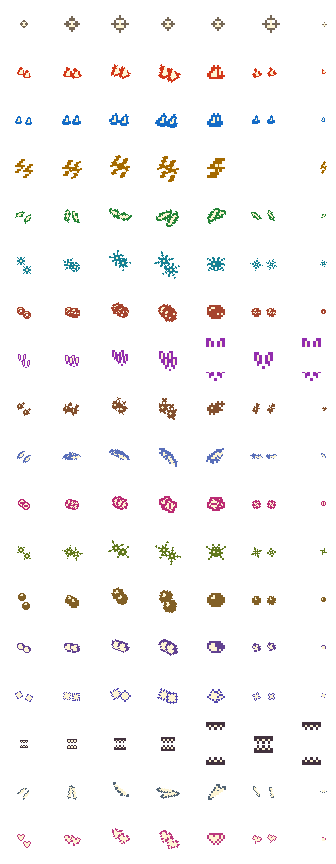
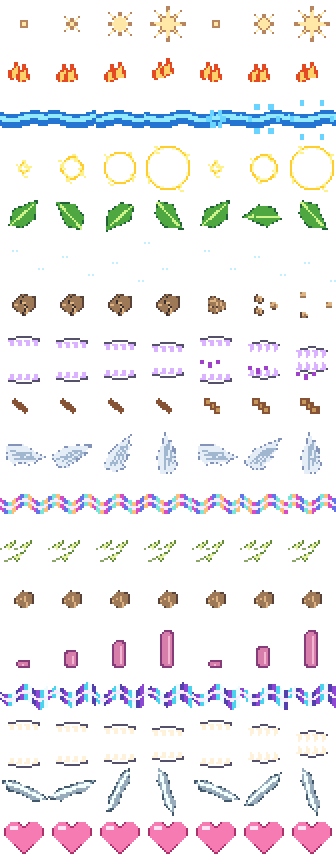
Give moves distinct pixel stream, fang, wing and ring effects

diff --git a/js/move-effects.js b/js/move-effects.js
@@ -9,22 +9,22 @@
   };
   // Sheet rows follow this order. Angles and heights describe the projectile path.
   const moves = {
-    노말: { reach: 0.15 }, 불꽃: { arc: 22, duration: 180 }, 물: { duration: 240 },
-    전기: { wave: 12, cycles: 3, duration: 175, since: 4 },
+    노말: { reach: 0.15 }, 불꽃: { reach: 0.25, duration: 180 }, 물: { duration: 240, beam: true },
+    전기: { reach: 0, duration: 175 },
     풀: { wave: 18, cycles: 1, duration: 260, since: 7 },
-    얼음: { reach: 0, fall: 65 }, 격투: { reach: 0.2, arc: 12 },
-    독: { reach: 0.12, since: 3 }, 땅: { arc: 48 }, 비행: { reach: 0.5, arc: 34 },
-    에스퍼: { wave: 8, cycles: 2, since: 4 }, 벌레: { reach: 0.55, wave: 16, cycles: 2, since: 6 },
-    바위: { reach: 0, fall: 85 }, 고스트: { reach: 0.45, wave: 21, cycles: 1.5 },
-    드래곤: { wave: 11, cycles: 2, since: 4 }, 악: { reach: 0.08 },
-    강철: { reach: 0.45, arc: 24 }, 페어리: { arc: 36, since: 6 },
+    얼음: { reach: 0, fall: 65 }, 격투: { reach: 0, fall: 20 },
+    독: { reach: 0.12, since: 3 }, 땅: { arc: 48 }, 비행: { reach: 0.15 },
+    에스퍼: { beam: true }, 벌레: {},
+    바위: { reach: 0, fall: 85 }, 고스트: { reach: 0, fall: -25 },
+    드래곤: { beam: true, since: 4 }, 악: { reach: 0.08 },
+    강철: { reach: 0.2 }, 페어리: { reach: 0, since: 6 },
   };
   const rows = Object.keys(moves);
   const sheets = new Map();
   function loadSheet(style) {
     if (!sheets.has(style)) {
       const image = new Image();
-      image.src = new URL("../assets/effects/" + style + "/moves.png", scriptUrl);
+      image.src = new URL("../assets/effects/" + style + "/moves.png?v=move-art-2", scriptUrl);
       sheets.set(style, image.decode().then(() => image, () => {
         sheets.delete(style);
         return null;
@@ -87,7 +87,15 @@
     const sheet = loadSheet(styleKey);
     return {
       async flight() {
+        if (move.beam) {
+          canvas.classList.add("move-beam");
+          canvas.style.width = Math.round(Math.hypot(dx, dy)) + "px";
+          canvas.style.rotate = Math.atan2(-dy, -dx) + "rad";
+          canvas.style.transform = "translate(-100%, -50%)";
+          canvas.style.transformOrigin = "0 0";
+        }
         return playFrames(canvas, await waitForSheet(sheet, signal), row, 0, style.flight, move.duration ?? 245, signal, (t) => {
+          if (move.beam) return [0, 0];
           const remaining = 1 - t;
           const reach = move.reach ?? 1;
           const arc = (move.arc ?? 0) * Math.sin(Math.PI * t);
@@ -96,6 +104,11 @@
         });
       },
       async impact() {
+        canvas.classList.remove("move-beam");
+        canvas.style.width = "";
+        canvas.style.rotate = "";
+        canvas.style.transform = "";
+        canvas.style.transformOrigin = "";
         return playFrames(canvas, await waitForSheet(sheet, signal), row, style.flight, style.impact, 175, signal, () => [0, 0]);
       },
     };

diff --git a/js/data.js b/js/data.js
@@ -25,15 +25,15 @@
     노말: ["몸통박치기", "#766857", "impact"],
     불꽃: ["불꽃세례", "#d43819", "burst"],
     물: ["물대포", "#156cc7", "stream"],
-    전기: ["방전", "#a56a00", "burst"],
+    전기: ["스파크", "#a56a00", "burst"],
     풀: ["나뭇잎", "#248437", "stream"],
     얼음: ["싸라기눈", "#168194", "fall"],
     격투: ["바위깨기", "#a6442e", "impact"],
     독: ["맹독엄니", "#922dae", "bite"],
     땅: ["진흙뿌리기", "#83502f", "fall"],
     비행: ["날개치기", "#596fba", "stream"],
-    에스퍼: ["사념의 박치기", "#bb2b73", "pulse"],
-    벌레: ["엉겨붙기", "#61791d", "pulse"],
+    에스퍼: ["환상빔", "#bb2b73", "pulse"],
+    벌레: ["바늘미사일", "#61791d", "pulse"],
     바위: ["돌떨구기", "#826026", "fall"],
     고스트: ["핥기", "#624291", "stream"],
     드래곤: ["용의 파동", "#5146ae", "pulse"],

diff --git a/index.html b/index.html
@@ -7,10 +7,10 @@
   <link rel="stylesheet" href="https://cdn.jsdelivr.net/npm/galmuri@2.40.3/dist/galmuri.css">
   <link rel="stylesheet" href="css/base.css">
   <link rel="stylesheet" href="css/layout.css">
-  <link rel="stylesheet" href="css/battle.css?v=classic-frames-1">
-  <script src="js/data.js" defer></script>
-  <script src="js/move-effects.js" defer></script>
-  <script src="js/battle.js?v=classic-frames-1" defer></script>
+  <link rel="stylesheet" href="css/battle.css?v=move-art-2">
+  <script src="js/data.js?v=move-art-2" defer></script>
+  <script src="js/move-effects.js?v=move-art-2" defer></script>
+  <script src="js/battle.js?v=move-art-2" defer></script>
   <script src="js/main.js" defer></script>
 </head>
 <body>

diff --git a/css/battle.css b/css/battle.css
@@ -227,3 +227,5 @@
   padding: 0.25rem;
 }
 .effect-picker p { font-size: 0.8rem; }
+
+.move-frames.move-beam { height: 4rem; }

diff --git a/assets/effects/build-sheets.py b/assets/effects/build-sheets.py
@@ -1,92 +1,130 @@
-"""Build STARTER LAB's original transparent pixel sheets. Requires Pillow."""
+"""Original move sprite sheets for STARTER LAB. Build with Python and Pillow."""
 from pathlib import Path
+from PIL import Image, ImageDraw
 import math
-import re
-from PIL import Image, ImageColor
 
 ROOT = Path(__file__).resolve().parents[2]
-source = (ROOT / "js/data.js").read_text(encoding="utf-8")
-masks = dict(re.findall(r'^    (\S+): "([012/]+)",', source, re.MULTILINE))
-colors = dict(re.findall(r'^    (\S+): \["[^"]+", "(#[0-9a-f]+)"', source, re.MULTILINE))
-# row order is shared with the runtime manifest
-moves = "노말 불꽃 물 전기 풀 얼음 격투 독 땅 비행 에스퍼 벌레 바위 고스트 드래곤 악 강철 페어리".split()
-masks["벌레"] = "1000001/0101010/0011100/0112110/0011100/0101010/1000001"
-masks["물"] = "0001000/0011100/0012100/0112100/1122110/1111110/0111100"
-profiles = {
-    "노말": (1, 4, 0, 0), "불꽃": (3, 7, 4, 30), "물": (4, 10, 1, -12),
-    "전기": (2, 8, 6, 18), "풀": (3, 8, 5, 180), "얼음": (5, 7, 11, 65),
-    "격투": (2, 5, 5, 36), "독": (2, 4, 8, 0), "땅": (4, 7, 7, 46),
-    "비행": (2, 5, 5, -95), "에스퍼": (3, 4, 3, 90), "벌레": (5, 7, 7, 120),
-    "바위": (3, 4, 11, 35), "고스트": (2, 6, 3, -30), "드래곤": (3, 9, 4, 125),
-    "악": (1, 1, 0, 0), "강철": (2, 4, 5, 135), "페어리": (3, 6, 9, -30),
-}
-styles = {
-    "gold-silver": (4, 3, 0),
-    "diamond-pearl": (7, 5, 1),
-    "black-white": (10, 7, 2),
-}
-highlights = {"불꽃": "#ffd26f", "물": "#c6f2ff", "전기": "#fff7a5", "풀": "#c7f187",
-              "얼음": "#d7f5ff", "악": "#f7d6b3", "고스트": "#f6a0cd"}
+MOVES = "노말 불꽃 물 전기 풀 얼음 격투 독 땅 비행 에스퍼 벌레 바위 고스트 드래곤 악 강철 페어리".split()
+STYLES = {"gold-silver": (4, 3, 0), "diamond-pearl": (7, 5, 1), "black-white": (10, 7, 2)}
 
-def glyph(move, size, angle, style):
-    image = Image.new("RGBA", (7, 7))
-    palette = [None, colors[move], highlights.get(move, "#fff0ca")]
-    if style == 0:
-        palette[2] = "#fff6d5"
-    for y, row in enumerate(masks[move].split("/")):
-        for x, pixel in enumerate(row):
-            if pixel != "0":
-                image.putpixel((x, y), ImageColor.getcolor(palette[int(pixel)], "RGBA"))
-    image = image.resize((size, size), Image.Resampling.NEAREST)
-    return image.rotate(angle, resample=Image.Resampling.NEAREST, expand=True)
+def rock(draw, x, y, size):
+    draw.polygon([(x-size,y-2),(x-2,y-size),(x+size,y-size+3),(x+size,y+3),(x,y+size),(x-size,y+3)], fill="#9d7958", outline="#594338")
+    draw.line([(x-size+2,y),(x+1,y-3),(x+2,y+size-2)], fill="#dfb586", width=2)
 
-def stamp(frame, tile, x, y):
-    frame.alpha_composite(tile, (round(x - tile.width / 2), round(y - tile.height / 2)))
-
-def draw_frame(move, frame_index, count, style, impact):
-    t = frame_index / max(count - 1, 1)
-    frame = Image.new("RGBA", (48, 48))
-    copies, horizontal, vertical, rotation = profiles[move]
-    if style == 0:
-        copies = min(copies, 2)
-    if move == "전기" and impact and frame_index % 2:
-        return frame
-    if move in ("독", "악") and impact:
-        tile = glyph(move, 19, 0, style)
-        top = tile.crop((0, 0, 19, 9))
-        bottom = tile.crop((0, 10, 19, 19))
-        gap = 13 * abs(1 - 2 * t)
-        stamp(frame, top, 24, 20 - gap)
-        stamp(frame, bottom, 24, 28 + gap)
-        return frame
-    for i in range(copies):
-        spread = i - (copies - 1) / 2
+def frame(move, index, count, style, impact):
+    t = index / max(1, count-1)
+    image = Image.new("RGBA", (48,48))
+    d = ImageDraw.Draw(image)
+    detail = 2 + style
+    if move == "물":
+        for x in range(0,48,3):
+            wave = round(math.sin(x/7 + t*12)*2)
+            d.rectangle((x,17+wave,x+3,30+wave), fill="#2474d1")
+            d.rectangle((x,20+wave,x+3,24+wave), fill="#93eaff")
         if impact:
-            if t > 0.75 and i % 2:
-                continue
-            angle = 2 * math.pi * i / copies
-            radius = (3 + 13 * t) * (0.75 if style == 0 else 1)
-            x, y = 24 + math.cos(angle) * radius, 24 + math.sin(angle) * radius
-            size = max(4, round(14 * (1 - 0.65 * t)))
+            for i in range(6):
+                a=i*math.pi/3
+                x,y=24+round(math.cos(a)*(7+13*t)),24+round(math.sin(a)*(7+13*t))
+                d.rectangle((x-2,y-3,x+2,y+2), fill="#68d4ff")
+    elif move in ("에스퍼","드래곤"):
+        palette = ["#d44dc7","#6473e8","#78e6d9","#ffbd7c"] if move=="에스퍼" else ["#5440ad","#8c48d3","#4bd3ee","#eefbff"]
+        for x in range(0,48,2):
+            center=24+round(math.sin(x/5+t*10)*4)
+            radius=4+round((x/48)*6) if move=="드래곤" else 6
+            d.rectangle((x,center-radius,x+2,center+radius),fill=palette[(x//4+index)%len(palette)])
+            d.rectangle((x,center-1,x+2,center+1),fill="#f8eaff")
+    elif move == "전기":
+        radius=5+round(t*17)
+        d.ellipse((24-radius,24-radius,24+radius,24+radius),outline="#ffce2e",width=3)
+        d.ellipse((26-radius,26-radius,22+radius,22+radius),outline="#fff9bc",width=1)
+        for i in range(detail+2):
+            a=i*math.pi*2/(detail+2)+t
+            x,y=24+round(math.cos(a)*radius),24+round(math.sin(a)*radius)
+            d.line([(x-3,y-4),(x+1,y-1),(x-1,y+2),(x+3,y+4)],fill="#fff18a",width=2)
+    elif move in ("악","독"):
+        gap=round((1-t)*11) if impact else round((1-t)*6+5)
+        d.line([(9,15-gap),(24,11-gap),(39,15-gap)],fill="#56516b",width=3)
+        d.line([(9,33+gap),(24,37+gap),(39,33+gap)],fill="#56516b",width=3)
+        for x in (12,20,28,36):
+            color="#dab2ff" if move=="독" else "#fff2db"
+            d.polygon([(x-3,15-gap),(x+2,15-gap),(x,23-gap)],fill=color)
+            d.polygon([(x-3,33+gap),(x+2,33+gap),(x,25+gap)],fill=color)
+        if move=="독" and impact:
+            for i in range(detail+1):
+                x=9+i*8; y=24+round(t*12)+i%2*3
+                d.rectangle((x,y,x+3,y+4),fill="#a041c9")
+                d.point((x+1,y),fill="#efb7ff")
+    elif move in ("격투","바위"):
+        if impact and move=="격투":
+            for i in range(detail+1):
+                a=i*math.pi*2/(detail+1)
+                rock(d,24+round(math.cos(a)*(4+13*t)),17+round(math.sin(a)*(3+9*t)),max(2,6-round(t*3)))
         else:
-            x = 24 + spread * horizontal
-            y = 24 + spread * vertical / 2 + math.sin(t * math.pi * 2 + i) * vertical / 3
-            if style == 2:
-                x += math.sin(t * math.pi + i) * 4
-                y += math.sin(t * math.pi * 2 + i) * 3
-            size = round(8 + 6 * t + (style if i == 0 else 0))
-        if move == "노말":
-            size += round(9 * (1 - abs(1 - 2 * t)))
-        if move == "전기":
-            size += 6
-        stamp(frame, glyph(move, size, rotation * (t + spread * 0.15), style), x, y)
-    return frame
+            rock(d,24,17 if move=="격투" else 24,11 if move=="격투" else 9)
+            if move=="격투":
+                d.line([(24,6),(20,14),(27,18),(22,27)],fill="#3b302d",width=2)
+    elif move == "고스트":
+        top=36-round(t*29)
+        d.rounded_rectangle((17,top,30,44),radius=5,fill="#d77eab",outline="#863c79",width=2)
+        d.line((24,top+6,24,40),fill="#f2b6d2",width=2)
+    elif move == "얼음":
+        for i in range(detail+3):
+            x=(i*13+index*2)%44+2;y=(i*9+index*6)%44+2
+            d.line((x-2,y,x+2,y),fill="#c4efff")
+            d.line((x,y-2,x,y+2),fill="#fff")
+    elif move == "땅":
+        for i in range(detail+1):
+            x=15+i*5;y=18+(i%3)*4
+            if impact:
+                d.rectangle((x-2,y-3,x+3+round(t*3),y+3),fill="#865337")
+                d.rectangle((x,y-1,x+2,y+1),fill="#c6975b")
+            else:
+                d.ellipse((x-3,y-3,x+3,y+3),fill="#865337")
+    elif move == "비행":
+        wing=Image.new("RGBA",(48,48));w=ImageDraw.Draw(wing)
+        w.polygon([(5,32),(15,17),(39,6),(33,17),(38,15),(30,25),(34,24),(25,33),(26,36),(16,39)],fill="#e5edf7",outline="#8394b8")
+        for i in range(3): w.line((12+i*5,32,28+i*3,15),fill="#a1b6cf",width=2)
+        image=wing.rotate(-55+round(t*100),resample=Image.Resampling.NEAREST)
+    elif move == "강철":
+        tail=Image.new("RGBA",(48,48));w=ImageDraw.Draw(tail)
+        w.polygon([(5,38),(10,27),(19,20),(29,10),(41,5),(37,18),(25,26),(17,36)],fill="#98acbb",outline="#44586c")
+        w.line([(8,35),(18,25),(30,15),(38,9)],fill="#f3ffff",width=3)
+        image=tail.rotate(-65+round(t*130),resample=Image.Resampling.NEAREST)
+    elif move == "벌레":
+        for i in range(detail+1):
+            x=9+i*8;y=15+(i%2)*11
+            d.polygon([(x-5,y+3),(x+8,y-3),(x,y+7)],fill="#e5f2a6",outline="#668b3e")
+            d.line((x-7,y+5,x-12,y+8),fill="#8ca66a",width=2)
+    elif move == "페어리":
+        d.polygon([(24,38),(5,20),(5,12),(11,6),(18,6),(24,12),(30,6),(37,6),(43,12),(43,20)],fill="#f57bb2",outline="#ac326e")
+        d.rectangle((11,11,17,14),fill="#ffe2f3")
+    elif move == "풀":
+        leaf=Image.new("RGBA",(48,48));w=ImageDraw.Draw(leaf)
+        w.polygon([(9,33),(13,18),(37,8),(35,27),(22,36)],fill="#4fa742",outline="#246336")
+        w.line((11,33,34,12),fill="#cef48b",width=2)
+        image=leaf.rotate(round(t*270),resample=Image.Resampling.NEAREST)
+    elif move == "불꽃":
+        for i in range(detail):
+            x=15+i*8;y=25+int(math.sin(index+i)*4)
+            d.polygon([(x-5,y+7),(x-7,y-1),(x-1,y-6),(x+1,y-13),(x+5,y-5),(x+7,y+4)],fill="#e34922")
+            d.polygon([(x-2,y+5),(x-3,y-2),(x+2,y-6),(x+4,y+4)],fill="#ffd16a")
+    else:
+        radius=5+round(t*15)
+        points=[]
+        for i in range(16):
+            a=i*math.pi/8;r=radius if i%2==0 else radius/3
+            points.append((24+round(math.cos(a)*r),24+round(math.sin(a)*r)))
+        d.polygon(points,fill="#ffe7a7",outline="#b78560")
+    if style==0:
+        # Lower color count and coarser pixels for the GBC treatment.
+        image=image.resize((24,24),Image.Resampling.NEAREST).resize((48,48),Image.Resampling.NEAREST)
+    return image
 
-for name, (travel, hit, style) in styles.items():
-    sheet = Image.new("RGBA", (48 * (travel + hit), 48 * len(moves)))
-    for row, move in enumerate(moves):
-        for col in range(travel + hit):
-            impact = col >= travel
-            tile = draw_frame(move, col - travel if impact else col, hit if impact else travel, style, impact)
-            sheet.alpha_composite(tile, (48 * col, 48 * row))
-    sheet.save(ROOT / "assets/effects" / name / "moves.png", optimize=True)
+for name,(flight,impact,style) in STYLES.items():
+    sheet=Image.new("RGBA",(48*(flight+impact),48*len(MOVES)))
+    for row,move in enumerate(MOVES):
+        for col in range(flight+impact):
+            hit=col>=flight
+            image=frame(move,col-flight if hit else col,impact if hit else flight,style,hit)
+            sheet.alpha_composite(image,(48*col,48*row))
+    sheet.save(ROOT/"assets/effects"/name/"moves.png",optimize=True)
